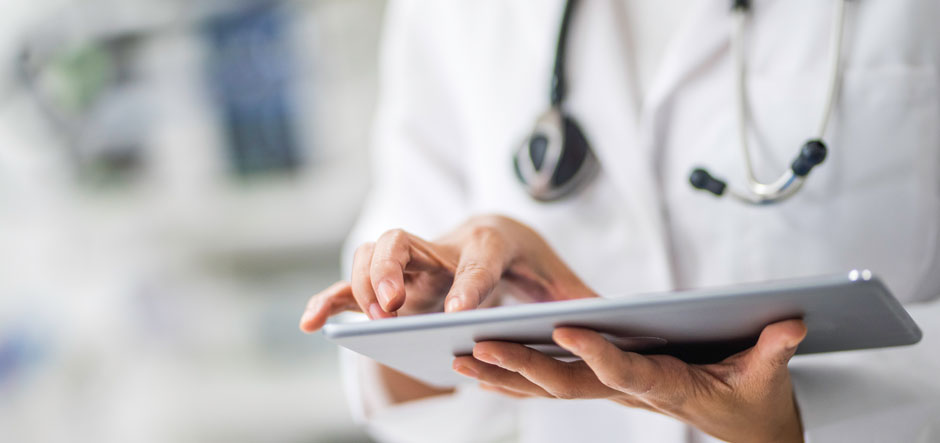
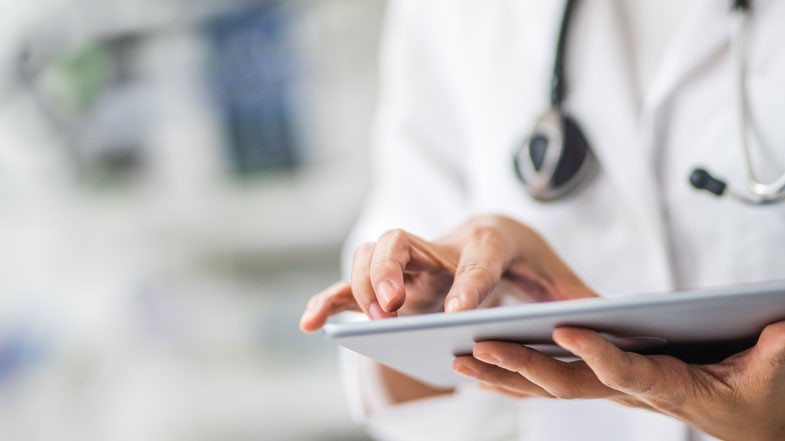
welcome bg modified

diff --git a/public/welcome.html b/public/welcome.html
@@ -6,7 +6,7 @@
     <meta name="viewport" content="width=device-width, initial-scale=1.0">
     <title>Document</title>
 </head>
-<body style="background-image: url('welcome.bg.jpg'); background-repeat: no-repeat; background-size: cover;">
+<body style="background-image: url('welcome.bg.jpg'); background-repeat: no-repeat; background-size:100%">
     <h2 class="ml6" style="padding-top:300px; padding-left: 150px; color: rgb(0, 0, 78); font-family: 'Inter', sans-serif; font-weight: 250;">
         <span class="text-wrapper">
           <span class="letters">The groundwork for all happiness is good health.</span>
